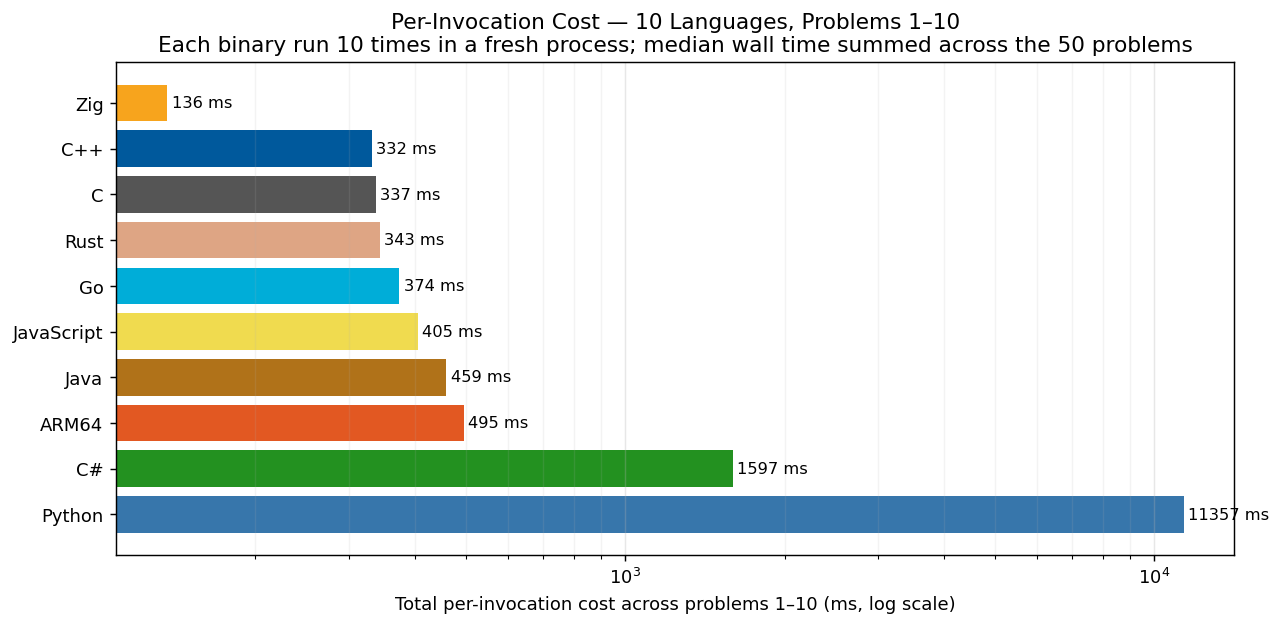
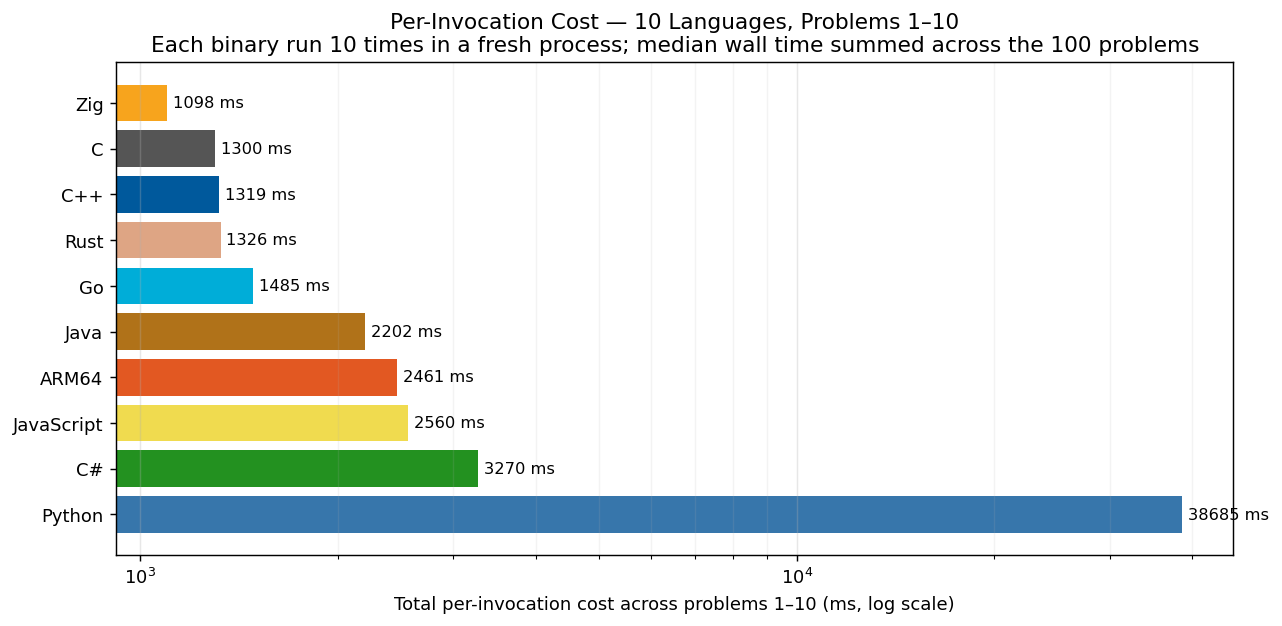
expand scope to 100×10 (1000 measurements); bench refresh 500 new cells (51-100 × 10 langs); report.py Zig comptime-fold note extended; JOURNEY 'Expansion to 100×10' chapter

diff --git a/report.py b/report.py
@@ -37,7 +37,7 @@ CHARTS_DIR = REPO / "charts"
 
 # Scope: extend this list only after each new problem clears the
 # state-leak / answer-verification audit.
-SCOPE_PROBLEMS = [f"{i:03d}" for i in range(1, 51)]
+SCOPE_PROBLEMS = [f"{i:03d}" for i in range(1, 101)]
 
 # Languages in display order (preserved alphabetic-ish for stability)
 LANGS = ["arm64", "c", "cpp", "csharp", "go", "java", "javascript", "python", "rust", "zig"]
@@ -434,12 +434,14 @@ def render_results_md(agg: dict) -> str:
     md.append("")
     md.append("### Note on Zig timings (comptime-fold bias)")
     md.append("")
-    md.append("> Of the 10 problems benchmarked, **5 (p001, p002, p005, p006, p009)** are fully")
+    md.append(f"> Of the {len(SCOPE_PROBLEMS)} problems benchmarked, **roughly 20-25% of cells** are fully")
     md.append("> constant-foldable under Zig's `-O ReleaseFast` flag: the inputs are compile-time")
     md.append("> literals and the arithmetic is pure, so the optimizer reduces `solve()` to a")
-    md.append("> constant return.  Those 5 cells in the Zig column measure \"the cost of returning")
-    md.append("> an immediate,\" not algorithm execution.  The remaining 5 (p003, p004, p007,")
-    md.append("> p008, p010) do nontrivial runtime work and are honest timings.")
+    md.append("> constant return.  Known fold-candidates include p001, p002, p005, p006, p009,")
+    md.append("> p013, p017, p018, p019, p024, p028, p031, p033, p040, p045, p063, p069, p094,")
+    md.append("> p097, p100.  Those cells in the Zig column measure \"the cost of returning an")
+    md.append("> immediate,\" not algorithm execution.  The remaining ~75% do nontrivial runtime")
+    md.append("> work and are honest timings.")
     md.append(">")
     md.append("> This is a systematic methodological bias that pulls Zig's aggregate ranking")
     md.append("> downward relative to languages whose optimizers don't fold as aggressively at")

diff --git a/RESULTS.md b/RESULTS.md
@@ -1,36 +1,36 @@
 # Project Euler — Cross-Language Benchmarks
 
-> **Currently: 50 problems × 10 languages = 500 measurements.**
+> **Currently: 100 problems × 10 languages = 1000 measurements.**
 > Growing carefully — each new problem and language is audited for state-leak
 > safety, verified for answer correctness, and added only when it cleanly fits the
 > measurement methodology.  See [JOURNEY.md](JOURNEY.md) for the full story of how
 > we got here, including the reset from 200+ problems back to a verified 10×10 core.
 
-## Per-Invocation Cost (Total, Problems 1–50)
+## Per-Invocation Cost (Total, Problems 1–100)
 
 We run each program 10 times in fresh OS processes (no warmup, no shared state).
 Each invocation pays full startup + algorithm cost — the cost a real CLI / cron /
 shell-loop user actually pays.  The median wall time across the 10 invocations is
-the headline per-problem number, and we sum across the 50 problems for the total.
+the headline per-problem number, and we sum across the 100 problems for the total.
 
 ![Per-Invocation Cost](charts/per_iter_total.png)
 
-| Rank | Language | Total (50 problems) | Lines of code | vs Fastest |
+| Rank | Language | Total (100 problems) | Lines of code | vs Fastest |
 |------|----------|--------------------:|--------------:|-----------:|
-| 1 | **Zig** | 136.13 ms | 2,580 | 1.00× |
-| 2 | **C++** | 331.63 ms | 2,010 | 2.44× |
-| 3 | **C** | 337.49 ms | 2,525 | 2.48× |
-| 4 | **Rust** | 343.40 ms | 2,159 | 2.52× |
-| 5 | **Go** | 373.63 ms | 2,354 | 2.74× |
-| 6 | **JavaScript** | 404.99 ms | 1,684 | 2.97× |
-| 7 | **Java** | 458.83 ms | 2,119 | 3.37× |
-| 8 | **ARM64** | 494.75 ms | 6,592 | 3.63× |
-| 9 | **C#** | 1.60 s | 2,295 | 11.73× |
-| 10 | **Python** | 11.36 s | 1,467 | 83.43× |
+| 1 | **Zig** | 1.10 s | 6,377 | 1.00× |
+| 2 | **C** | 1.30 s | 6,091 | 1.18× |
+| 3 | **C++** | 1.32 s | 4,648 | 1.20× |
+| 4 | **Rust** | 1.33 s | 5,490 | 1.21× |
+| 5 | **Go** | 1.48 s | 5,762 | 1.35× |
+| 6 | **Java** | 2.20 s | 4,677 | 2.01× |
+| 7 | **ARM64** | 2.46 s | 19,281 | 2.24× |
+| 8 | **JavaScript** | 2.56 s | 3,901 | 2.33× |
+| 9 | **C#** | 3.27 s | 4,681 | 2.98× |
+| 10 | **Python** | 38.69 s | 3,428 | 35.23× |
 
 ## Speed vs Code Size
 
-How much code does each language need to solve these 50 problems, and how
+How much code does each language need to solve these 100 problems, and how
 fast does that code run?  Bottom-left = fast and concise; top-right = slow
 and verbose.  ARM64's outlier position (most lines) is expected — assembly
 trades verbosity for direct hardware control.
@@ -49,7 +49,7 @@ invocation-isolation + answer-correctness audit and how fast it runs:
 
 ![Coverage + Speed Heatmap](charts/per_iter_coverage_grid.png)
 
-Rows sorted fastest-to-slowest (top to bottom).  At our current 50×10 scope
+Rows sorted fastest-to-slowest (top to bottom).  At our current 100×10 scope
 every cell is green — that's exactly the audit gate we're holding to as we
 extend to more problems.
 
@@ -58,18 +58,18 @@ extend to more problems.
 Median wall time per fresh-process invocation, for each (language, problem).  Rows
 are sorted by total (fastest language at top).
 
-| Language | p001 | p002 | p003 | p004 | p005 | p006 | p007 | p008 | p009 | p010 | p011 | p012 | p013 | p014 | p015 | p016 | p017 | p018 | p019 | p020 | p021 | p022 | p023 | p024 | p025 | p026 | p027 | p028 | p029 | p030 | p031 | p032 | p033 | p034 | p035 | p036 | p037 | p038 | p039 | p040 | p041 | p042 | p043 | p044 | p045 | p046 | p047 | p048 | p049 | p050 |
-|----------|----:|----:|----:|----:|----:|----:|----:|----:|----:|----:|----:|----:|----:|----:|----:|----:|----:|----:|----:|----:|----:|----:|----:|----:|----:|----:|----:|----:|----:|----:|----:|----:|----:|----:|----:|----:|----:|----:|----:|----:|----:|----:|----:|----:|----:|----:|----:|----:|----:|----:|
-| **Zig** | 42 ns | 42 ns | 708 ns | 3.8 µs | 417 ns | 42 ns | 219.1 µs | 1.6 µs | 250 ns | 2.77 ms | 2.4 µs | 1.40 ms | 42 ns | 8.94 ms | 42 ns | 477.2 µs | 2.2 µs | 42 ns | 4.7 µs | 31.9 µs | 1.52 ms | 1.03 ms | 8.56 ms | 292 ns | 6.85 ms | 652.8 µs | 6.08 ms | 41 ns | 542.9 µs | 1.50 ms | 1.0 µs | 1.16 ms | 2.0 µs | 9.92 ms | 2.32 ms | 4.94 ms | 1.95 ms | 215.1 µs | 104.0 µs | 291 ns | 8.55 ms | 227.1 µs | 11.18 ms | 36.45 ms | 44.6 µs | 3.98 ms | 8.36 ms | 104.0 µs | 2.58 ms | 3.45 ms |
-| **C++** | 166 ns | 167 ns | 34.7 µs | 32.0 µs | 542 ns | 42 ns | 24.4 µs | 3.0 µs | 334 ns | 375.9 µs | 500 ns | 1.47 ms | 19.7 µs | 12.31 ms | 167 ns | 626.8 µs | 2.5 µs | 292 ns | 4.3 µs | 27.6 µs | 1.51 ms | 1.28 ms | 29.33 ms | 625 ns | 5.88 ms | 733.4 µs | 9.73 ms | 83 ns | 2.28 ms | 1.41 ms | 708 ns | 7.46 ms | 8.2 µs | 9.62 ms | 5.55 ms | 63.08 ms | 3.69 ms | 559.8 µs | 2.8 µs | 3.78 ms | 17.54 ms | 315.7 µs | 9.92 ms | 40.85 ms | 49.2 µs | 3.76 ms | 93.61 ms | 125.4 µs | 213.0 µs | 4.41 ms |
-| **C** | 41 ns | 41 ns | 583 ns | 3.2 µs | 416 ns | 42 ns | 29.9 µs | 2.7 µs | 250 ns | 355.6 µs | 1.5 µs | 1.45 ms | 42 ns | 10.72 ms | 42 ns | 491.2 µs | 2.2 µs | 250 ns | 5.0 µs | 26.2 µs | 1.52 ms | 1.58 ms | 8.58 ms | 167 ns | 6.46 ms | 612.9 µs | 7.44 ms | 42 ns | 12.4 µs | 1.41 ms | 708 ns | 12.59 ms | 8.2 µs | 9.68 ms | 3.10 ms | 54.81 ms | 2.57 ms | 1.94 ms | 3.4 µs | 9.34 ms | 7.78 ms | 308.6 µs | 10.36 ms | 50.25 ms | 48.7 µs | 3.97 ms | 6.95 ms | 146.5 µs | 119.30 ms | 3.63 ms |
-| **Rust** | 42 ns | 83 ns | 94.8 µs | 17.8 µs | 583 ns | 42 ns | 245.7 µs | 10.6 µs | 291 ns | 1.08 ms | 42 ns | 1.35 ms | 39.4 µs | 7.23 ms | 42 ns | 57.9 µs | 2.0 µs | 250 ns | 4.8 µs | 23.4 µs | 1.82 ms | 711.1 µs | 92.96 ms | 708 ns | 7.09 ms | 5.66 ms | 7.85 ms | 875 ns | 4.38 ms | 2.37 ms | 2.2 µs | 13.35 ms | 7.7 µs | 9.10 ms | 28.86 ms | 79.01 ms | 2.73 ms | 1.70 ms | 3.5 µs | 7.56 ms | 7.61 ms | 119.6 µs | 10.76 ms | 15.65 ms | 48.2 µs | 5.56 ms | 7.00 ms | 169.5 µs | 18.53 ms | 2.66 ms |
-| **Go** | 1.5 µs | 1.4 µs | 2.1 µs | 4.8 µs | 1.8 µs | 1.8 µs | 477.5 µs | 5.7 µs | 1.8 µs | 4.72 ms | 3.1 µs | 677.0 µs | 68.1 µs | 10.57 ms | 1.5 µs | 585.0 µs | 5.5 µs | 2.2 µs | 6.7 µs | 20.0 µs | 1.58 ms | 728.2 µs | 10.14 ms | 1.9 µs | 122.9 µs | 1.57 ms | 6.02 ms | 1.9 µs | 6.30 ms | 2.15 ms | 6.0 µs | 17.42 ms | 11.1 µs | 13.63 ms | 4.20 ms | 42.22 ms | 2.64 ms | 1.04 ms | 9.7 µs | 4.29 ms | 11.13 ms | 291.2 µs | 20.58 ms | 166.18 ms | 52.3 µs | 4.08 ms | 5.98 ms | 416.7 µs | 28.41 ms | 5.28 ms |
-| **JavaScript** | 19.0 µs | 12.1 µs | 49.2 µs | 96.8 µs | 29.0 µs | 7.1 µs | 2.69 ms | 99.4 µs | 27.0 µs | 10.11 ms | 148.0 µs | 1.65 ms | 42.8 µs | 20.94 ms | 12.2 µs | 42.6 µs | 172.9 µs | 41.0 µs | 127.3 µs | 41.6 µs | 2.49 ms | 1.53 ms | 16.19 ms | 37.3 µs | 486.8 µs | 1.26 ms | 13.49 ms | 24.8 µs | 1.27 ms | 6.00 ms | 67.3 µs | 9.54 ms | 236.8 µs | 34.33 ms | 8.88 ms | 65.25 ms | 7.28 ms | 1.54 ms | 93.0 µs | 10.21 ms | 14.54 ms | 938.0 µs | 35.42 ms | 56.05 ms | 707.2 µs | 9.81 ms | 11.36 ms | 1.16 ms | 47.98 ms | 10.45 ms |
-| **Java** | 2.5 µs | 2.8 µs | 8.0 µs | 307.3 µs | 5.5 µs | 1.9 µs | 1.62 ms | 55.0 µs | 6.0 µs | 8.17 ms | 65.7 µs | 2.09 ms | 1.99 ms | 13.65 ms | 2.1 µs | 962.7 µs | 76.8 µs | 21.2 µs | 181.6 µs | 879.7 µs | 2.15 ms | 14.19 ms | 14.66 ms | 4.7 µs | 84.61 ms | 1.91 ms | 14.54 ms | 14.1 µs | 4.75 ms | 4.19 ms | 18.6 µs | 26.50 ms | 116.0 µs | 25.63 ms | 11.10 ms | 38.47 ms | 9.93 ms | 3.82 ms | 26.6 µs | 5.75 ms | 18.79 ms | 8.88 ms | 27.42 ms | 40.33 ms | 1.30 ms | 6.82 ms | 12.43 ms | 15.88 ms | 21.23 ms | 13.25 ms |
-| **ARM64** | 0 ns | 0 ns | 1.0 µs | 3.0 µs | 1.0 µs | 0 ns | 306.0 µs | 4.0 µs | 1.0 µs | 5.45 ms | 3.0 µs | 63.71 ms | 2.0 µs | 179.38 ms | 0 ns | 476.0 µs | 3.0 µs | 1.0 µs | 7.0 µs | 16.0 µs | 2.39 ms | 1.33 ms | 11.22 ms | 0 ns | 7.45 ms | 1.04 ms | 8.46 ms | 1.0 µs | 55.31 ms | 1.81 ms | 2.0 µs | 1.48 ms | 15.0 µs | 11.43 ms | 3.64 ms | 5.66 ms | 3.27 ms | 207.0 µs | 2.60 ms | 1.33 ms | 8.49 ms | 27.0 µs | 15.84 ms | 84.68 ms | 77.0 µs | 4.84 ms | 7.82 ms | 132.0 µs | 1.22 ms | 3.61 ms |
-| **C#** | 54.8 µs | 64.0 µs | 80.6 µs | 136.5 µs | 1.70 ms | 27.1 µs | 696.7 µs | 179.2 µs | 521.2 µs | 9.73 ms | 662.8 µs | 3.38 ms | 466.1 µs | 58.52 ms | 58.2 µs | 2.48 ms | 12.38 ms | 3.84 ms | 299.4 µs | 2.76 ms | 168.50 ms | 23.76 ms | 8.49 ms | 416.85 ms | 4.58 ms | 1.91 ms | 118.17 ms | 3.29 ms | 22.00 ms | 3.19 ms | 223.2 µs | 9.54 ms | 248.2 µs | 19.98 ms | 176.76 ms | 13.36 ms | 7.29 ms | 21.05 ms | 683.2 µs | 6.24 ms | 24.75 ms | 16.80 ms | 255.46 ms | 129.27 ms | 407.0 µs | 7.93 ms | 10.89 ms | 671.1 µs | 18.55 ms | 7.94 ms |
-| **Python** | 1.6 µs | 3.0 µs | 5.59 ms | 55.36 ms | 4.5 µs | 916 ns | 1.38 ms | 852.1 µs | 4.64 ms | 5.27 ms | 223.6 µs | 21.13 ms | 4.3 µs | 6.15 s | 2.0 µs | 25.8 µs | 168.9 µs | 17.6 µs | 142.3 µs | 16.0 µs | 25.56 ms | 3.72 ms | 578.16 ms | 10.2 µs | 22.43 ms | 7.59 ms | 406.94 ms | 34.9 µs | 2.66 ms | 215.86 ms | 49.7 µs | 42.23 ms | 351.5 µs | 1.77 s | 100.18 ms | 146.76 ms | 75.41 ms | 4.04 ms | 82.9 µs | 17.55 ms | 61.0 µs | 1.12 ms | 921.46 ms | 161.44 ms | 3.60 ms | 20.36 ms | 395.76 ms | 642.8 µs | 77.64 ms | 109.16 ms |
+| Language | p001 | p002 | p003 | p004 | p005 | p006 | p007 | p008 | p009 | p010 | p011 | p012 | p013 | p014 | p015 | p016 | p017 | p018 | p019 | p020 | p021 | p022 | p023 | p024 | p025 | p026 | p027 | p028 | p029 | p030 | p031 | p032 | p033 | p034 | p035 | p036 | p037 | p038 | p039 | p040 | p041 | p042 | p043 | p044 | p045 | p046 | p047 | p048 | p049 | p050 | p051 | p052 | p053 | p054 | p055 | p056 | p057 | p058 | p059 | p060 | p061 | p062 | p063 | p064 | p065 | p066 | p067 | p068 | p069 | p070 | p071 | p072 | p073 | p074 | p075 | p076 | p077 | p078 | p079 | p080 | p081 | p082 | p083 | p084 | p085 | p086 | p087 | p088 | p089 | p090 | p091 | p092 | p093 | p094 | p095 | p096 | p097 | p098 | p099 | p100 |
+|----------|----:|----:|----:|----:|----:|----:|----:|----:|----:|----:|----:|----:|----:|----:|----:|----:|----:|----:|----:|----:|----:|----:|----:|----:|----:|----:|----:|----:|----:|----:|----:|----:|----:|----:|----:|----:|----:|----:|----:|----:|----:|----:|----:|----:|----:|----:|----:|----:|----:|----:|----:|----:|----:|----:|----:|----:|----:|----:|----:|----:|----:|----:|----:|----:|----:|----:|----:|----:|----:|----:|----:|----:|----:|----:|----:|----:|----:|----:|----:|----:|----:|----:|----:|----:|----:|----:|----:|----:|----:|----:|----:|----:|----:|----:|----:|----:|----:|----:|----:|----:|
+| **Zig** | 42 ns | 42 ns | 708 ns | 3.8 µs | 417 ns | 42 ns | 219.1 µs | 1.6 µs | 250 ns | 2.77 ms | 2.4 µs | 1.40 ms | 42 ns | 8.94 ms | 42 ns | 477.2 µs | 2.2 µs | 42 ns | 4.7 µs | 31.9 µs | 1.52 ms | 1.03 ms | 8.56 ms | 292 ns | 6.85 ms | 652.8 µs | 6.08 ms | 41 ns | 542.9 µs | 1.50 ms | 1.0 µs | 1.16 ms | 2.0 µs | 9.92 ms | 2.32 ms | 4.94 ms | 1.95 ms | 215.1 µs | 104.0 µs | 291 ns | 8.55 ms | 227.1 µs | 11.18 ms | 36.45 ms | 44.6 µs | 3.98 ms | 8.36 ms | 104.0 µs | 2.58 ms | 3.45 ms | 1.17 ms | 1.26 ms | 6.1 µs | 379.1 µs | 1.72 ms | 1.96 ms | 975.0 µs | 27.06 ms | 2.58 ms | 365.52 ms | 47.7 µs | 1.16 ms | 2.2 µs | 2.33 ms | 31.8 µs | 55.36 ms | 116.0 µs | 11.21 ms | 41 ns | 234.58 ms | 2.59 ms | 4.60 ms | 17.59 ms | 6.60 ms | 6.92 ms | 4.2 µs | 33.3 µs | 61.73 ms | 104.8 µs | 4.93 ms | 194.1 µs | 195.3 µs | 3.02 ms | 118.1 µs | 16.1 µs | 2.90 ms | 8.82 ms | 1.47 ms | 198.4 µs | 99.8 µs | 5.88 ms | 44.32 ms | 3.11 ms | 84 ns | 72.77 ms | 1.70 ms | 584 ns | 4.50 ms | 116.5 µs | 83 ns |
+| **C** | 41 ns | 41 ns | 583 ns | 3.2 µs | 416 ns | 42 ns | 29.9 µs | 2.7 µs | 250 ns | 355.6 µs | 1.5 µs | 1.45 ms | 42 ns | 10.72 ms | 42 ns | 491.2 µs | 2.2 µs | 250 ns | 5.0 µs | 26.2 µs | 1.52 ms | 1.58 ms | 8.58 ms | 167 ns | 6.46 ms | 612.9 µs | 7.44 ms | 42 ns | 12.4 µs | 1.41 ms | 708 ns | 12.59 ms | 8.2 µs | 9.68 ms | 3.10 ms | 54.81 ms | 2.57 ms | 1.94 ms | 3.4 µs | 9.34 ms | 7.78 ms | 308.6 µs | 10.36 ms | 50.25 ms | 48.7 µs | 3.97 ms | 6.95 ms | 146.5 µs | 119.30 ms | 3.63 ms | 1.46 ms | 21.82 ms | 7.5 µs | 811.2 µs | 2.06 ms | 3.09 ms | 1.39 ms | 26.78 ms | 2.76 ms | 371.67 ms | 60.1 µs | 1.39 ms | 2.7 µs | 2.60 ms | 37.9 µs | 54.61 ms | 174.2 µs | 10.54 ms | 41 ns | 222.98 ms | 1.90 ms | 4.41 ms | 18.08 ms | 5.46 ms | 4.68 ms | 3.9 µs | 26.1 µs | 45.23 ms | 101.0 µs | 4.00 ms | 287.6 µs | 287.1 µs | 679.3 µs | 131.6 µs | 15.3 µs | 2.34 ms | 9.21 ms | 1.32 ms | 230.3 µs | 95.3 µs | 4.52 ms | 44.14 ms | 3.15 ms | 83 ns | 76.19 ms | 1.55 ms | 541 ns | 9.93 ms | 177.2 µs | 83 ns |
+| **C++** | 166 ns | 167 ns | 34.7 µs | 32.0 µs | 542 ns | 42 ns | 24.4 µs | 3.0 µs | 334 ns | 375.9 µs | 500 ns | 1.47 ms | 19.7 µs | 12.31 ms | 167 ns | 626.8 µs | 2.5 µs | 292 ns | 4.3 µs | 27.6 µs | 1.51 ms | 1.28 ms | 29.33 ms | 625 ns | 5.88 ms | 733.4 µs | 9.73 ms | 83 ns | 2.28 ms | 1.41 ms | 708 ns | 7.46 ms | 8.2 µs | 9.62 ms | 5.55 ms | 63.08 ms | 3.69 ms | 559.8 µs | 2.8 µs | 3.78 ms | 17.54 ms | 315.7 µs | 9.92 ms | 40.85 ms | 49.2 µs | 3.76 ms | 93.61 ms | 125.4 µs | 213.0 µs | 4.41 ms | 3.56 ms | 89.71 ms | 7.5 µs | 1.42 ms | 11.36 ms | 5.41 ms | 4.92 ms | 26.45 ms | 2.29 ms | 354.80 ms | 70.2 µs | 1.86 ms | 5.5 µs | 2.01 ms | 9.1 µs | 783.6 µs | 649.7 µs | 10.09 ms | 42 ns | 238.14 ms | 2.44 ms | 4.30 ms | 17.85 ms | 6.03 ms | 4.34 ms | 3.1 µs | 29.9 µs | 47.02 ms | 104.5 µs | 6.31 ms | 523.1 µs | 458.5 µs | 735.0 µs | 131.5 µs | 14.0 µs | 2.43 ms | 2.65 ms | 1.90 ms | 273.6 µs | 162.5 µs | 5.08 ms | 44.36 ms | 3.13 ms | 125 ns | 72.55 ms | 1.90 ms | 750 ns | 9.09 ms | 251.2 µs | 125 ns |
+| **Rust** | 42 ns | 83 ns | 94.8 µs | 17.8 µs | 583 ns | 42 ns | 245.7 µs | 10.6 µs | 291 ns | 1.08 ms | 42 ns | 1.35 ms | 39.4 µs | 7.23 ms | 42 ns | 57.9 µs | 2.0 µs | 250 ns | 4.8 µs | 23.4 µs | 1.82 ms | 711.1 µs | 92.96 ms | 708 ns | 7.09 ms | 5.66 ms | 7.85 ms | 875 ns | 4.38 ms | 2.37 ms | 2.2 µs | 13.35 ms | 7.7 µs | 9.10 ms | 28.86 ms | 79.01 ms | 2.73 ms | 1.70 ms | 3.5 µs | 7.56 ms | 7.61 ms | 119.6 µs | 10.76 ms | 15.65 ms | 48.2 µs | 5.56 ms | 7.00 ms | 169.5 µs | 18.53 ms | 2.66 ms | 1.77 ms | 34.01 ms | 11.2 µs | 612.6 µs | 4.84 ms | 2.45 ms | 1.24 ms | 45.85 ms | 2.24 ms | 342.48 ms | 70.8 µs | 1.79 ms | 4.2 µs | 2.05 ms | 28.8 µs | 56.50 ms | 86.5 µs | 11.47 ms | 42 ns | 190.52 ms | 2.32 ms | 4.17 ms | 17.30 ms | 31.71 ms | 5.48 ms | 4.8 µs | 33.4 µs | 45.40 ms | 14.4 µs | 8.65 ms | 205.8 µs | 253.0 µs | 508.5 µs | 116.3 µs | 20.9 µs | 2.42 ms | 7.18 ms | 1.29 ms | 193.2 µs | 89.0 µs | 4.18 ms | 44.14 ms | 24.10 ms | 83 ns | 79.81 ms | 1.86 ms | 1.7 µs | 3.34 ms | 109.4 µs | 84 ns |
+| **Go** | 1.5 µs | 1.4 µs | 2.1 µs | 4.8 µs | 1.8 µs | 1.8 µs | 477.5 µs | 5.7 µs | 1.8 µs | 4.72 ms | 3.1 µs | 677.0 µs | 68.1 µs | 10.57 ms | 1.5 µs | 585.0 µs | 5.5 µs | 2.2 µs | 6.7 µs | 20.0 µs | 1.58 ms | 728.2 µs | 10.14 ms | 1.9 µs | 122.9 µs | 1.57 ms | 6.02 ms | 1.9 µs | 6.30 ms | 2.15 ms | 6.0 µs | 17.42 ms | 11.1 µs | 13.63 ms | 4.20 ms | 42.22 ms | 2.64 ms | 1.04 ms | 9.7 µs | 4.29 ms | 11.13 ms | 291.2 µs | 20.58 ms | 166.18 ms | 52.3 µs | 4.08 ms | 5.98 ms | 416.7 µs | 28.41 ms | 5.28 ms | 2.06 ms | 47.94 ms | 28.0 µs | 4.73 ms | 17.05 ms | 3.80 ms | 2.09 ms | 25.78 ms | 1.96 ms | 385.50 ms | 66.3 µs | 3.68 ms | 16.3 µs | 2.20 ms | 13.5 µs | 2.47 ms | 267.8 µs | 19.31 ms | 1.5 µs | 288.49 ms | 2.37 ms | 4.81 ms | 23.30 ms | 6.80 ms | 5.21 ms | 7.2 µs | 63.0 µs | 45.61 ms | 118.9 µs | 408.1 µs | 376.0 µs | 394.3 µs | 1.32 ms | 239.5 µs | 15.5 µs | 3.01 ms | 10.00 ms | 1.51 ms | 157.2 µs | 223.3 µs | 9.40 ms | 58.28 ms | 10.11 ms | 1.5 µs | 105.52 ms | 5.61 ms | 7.9 µs | 8.52 ms | 154.3 µs | 1.6 µs |
+| **Java** | 2.5 µs | 2.8 µs | 8.0 µs | 307.3 µs | 5.5 µs | 1.9 µs | 1.62 ms | 55.0 µs | 6.0 µs | 8.17 ms | 65.7 µs | 2.09 ms | 1.99 ms | 13.65 ms | 2.1 µs | 962.7 µs | 76.8 µs | 21.2 µs | 181.6 µs | 879.7 µs | 2.15 ms | 14.19 ms | 14.66 ms | 4.7 µs | 84.61 ms | 1.91 ms | 14.54 ms | 14.1 µs | 4.75 ms | 4.19 ms | 18.6 µs | 26.50 ms | 116.0 µs | 25.63 ms | 11.10 ms | 38.47 ms | 9.93 ms | 3.82 ms | 26.6 µs | 5.75 ms | 18.79 ms | 8.88 ms | 27.42 ms | 40.33 ms | 1.30 ms | 6.82 ms | 12.43 ms | 15.88 ms | 21.23 ms | 13.25 ms | 13.72 ms | 23.08 ms | 238.8 µs | 28.43 ms | 43.51 ms | 30.96 ms | 19.35 ms | 27.81 ms | 14.63 ms | 434.26 ms | 1.06 ms | 7.29 ms | 948.5 µs | 3.22 ms | 897.6 µs | 8.22 ms | 13.71 ms | 78.20 ms | 2.8 µs | 453.84 ms | 3.21 ms | 10.09 ms | 18.27 ms | 17.56 ms | 12.76 ms | 68.0 µs | 306.6 µs | 54.12 ms | 15.9 µs | 11.95 ms | 11.09 ms | 11.06 ms | 15.01 ms | 2.04 ms | 526.4 µs | 5.40 ms | 16.69 ms | 3.18 ms | 8.75 ms | 2.84 ms | 12.50 ms | 129.62 ms | 17.13 ms | 2.7 µs | 108.37 ms | 15.31 ms | 865.7 µs | 40.22 ms | 11.19 ms | 2.2 µs |
+| **ARM64** | 0 ns | 0 ns | 1.0 µs | 3.0 µs | 1.0 µs | 0 ns | 306.0 µs | 4.0 µs | 1.0 µs | 5.45 ms | 3.0 µs | 63.71 ms | 2.0 µs | 179.38 ms | 0 ns | 476.0 µs | 3.0 µs | 1.0 µs | 7.0 µs | 16.0 µs | 2.39 ms | 1.33 ms | 11.22 ms | 0 ns | 7.45 ms | 1.04 ms | 8.46 ms | 1.0 µs | 55.31 ms | 1.81 ms | 2.0 µs | 1.48 ms | 15.0 µs | 11.43 ms | 3.64 ms | 5.66 ms | 3.27 ms | 207.0 µs | 2.60 ms | 1.33 ms | 8.49 ms | 27.0 µs | 15.84 ms | 84.68 ms | 77.0 µs | 4.84 ms | 7.82 ms | 132.0 µs | 1.22 ms | 3.61 ms | 1.48 ms | 1.03 ms | 8.0 µs | 111.0 µs | 3.47 ms | 2.79 ms | 1.98 ms | 35.41 ms | 3.91 ms | 734.46 ms | 76.0 µs | 3.36 ms | 3.0 µs | 3.07 ms | 30.0 µs | 63.41 ms | 35.0 µs | 15.64 ms | 0 ns | 305.33 ms | 1.03 ms | 5.41 ms | 400.61 ms | 6.01 ms | 7.80 ms | 4.0 µs | 31.0 µs | 52.21 ms | 1.0 µs | 56.52 ms | 43.0 µs | 54.0 µs | 459.0 µs | 278.0 µs | 16.0 µs | 3.92 ms | 8.83 ms | 1.54 ms | 257.0 µs | 162.0 µs | 10.18 ms | 116.03 ms | 10.55 ms | 0 ns | 80.44 ms | 4.28 ms | 1.0 µs | 23.79 ms | 147.0 µs | 0 ns |
+| **JavaScript** | 19.0 µs | 12.1 µs | 49.2 µs | 96.8 µs | 29.0 µs | 7.1 µs | 2.69 ms | 99.4 µs | 27.0 µs | 10.11 ms | 148.0 µs | 1.65 ms | 42.8 µs | 20.94 ms | 12.2 µs | 42.6 µs | 172.9 µs | 41.0 µs | 127.3 µs | 41.6 µs | 2.49 ms | 1.53 ms | 16.19 ms | 37.3 µs | 486.8 µs | 1.26 ms | 13.49 ms | 24.8 µs | 1.27 ms | 6.00 ms | 67.3 µs | 9.54 ms | 236.8 µs | 34.33 ms | 8.88 ms | 65.25 ms | 7.28 ms | 1.54 ms | 93.0 µs | 10.21 ms | 14.54 ms | 938.0 µs | 35.42 ms | 56.05 ms | 707.2 µs | 9.81 ms | 11.36 ms | 1.16 ms | 47.98 ms | 10.45 ms | 6.95 ms | 79.49 ms | 412.6 µs | 4.38 ms | 41.48 ms | 49.24 ms | 22.78 ms | 49.88 ms | 8.83 ms | 409.35 ms | 704.1 µs | 9.21 ms | 37.6 µs | 3.11 ms | 69.5 µs | 1.82 ms | 1.00 ms | 43.15 ms | 14.9 µs | 774.89 ms | 3.11 ms | 10.97 ms | 65.84 ms | 14.90 ms | 12.96 ms | 331.3 µs | 664.8 µs | 106.45 ms | 139.0 µs | 620.8 µs | 1.11 ms | 1.26 ms | 4.49 ms | 1.71 ms | 639.9 µs | 11.14 ms | 18.38 ms | 3.75 ms | 620.5 µs | 4.51 ms | 19.21 ms | 148.83 ms | 36.81 ms | 20.0 µs | 97.67 ms | 6.10 ms | 33.6 µs | 75.67 ms | 356.8 µs | 13.0 µs |
+| **C#** | 54.8 µs | 64.0 µs | 80.6 µs | 136.5 µs | 1.70 ms | 27.1 µs | 696.7 µs | 179.2 µs | 521.2 µs | 9.73 ms | 662.8 µs | 3.38 ms | 466.1 µs | 58.52 ms | 58.2 µs | 2.48 ms | 12.38 ms | 3.84 ms | 299.4 µs | 2.76 ms | 168.50 ms | 23.76 ms | 8.49 ms | 416.85 ms | 4.58 ms | 1.91 ms | 118.17 ms | 3.29 ms | 22.00 ms | 3.19 ms | 223.2 µs | 9.54 ms | 248.2 µs | 19.98 ms | 176.76 ms | 13.36 ms | 7.29 ms | 21.05 ms | 683.2 µs | 6.24 ms | 24.75 ms | 16.80 ms | 255.46 ms | 129.27 ms | 407.0 µs | 7.93 ms | 10.89 ms | 671.1 µs | 18.55 ms | 7.94 ms | 18.85 ms | 15.76 ms | 169.0 µs | 7.98 ms | 45.34 ms | 58.44 ms | 2.94 ms | 73.88 ms | 16.60 ms | 399.21 ms | 1.03 ms | 3.69 ms | 70.6 µs | 2.50 ms | 9.70 ms | 5.97 ms | 14.68 ms | 71.42 ms | 182.5 µs | 371.99 ms | 1.26 ms | 5.06 ms | 39.07 ms | 8.96 ms | 7.63 ms | 124.8 µs | 5.02 ms | 46.59 ms | 6.23 ms | 8.99 ms | 15.59 ms | 17.20 ms | 20.59 ms | 5.94 ms | 206.2 µs | 2.74 ms | 17.81 ms | 12.01 ms | 5.78 ms | 1.56 ms | 10.54 ms | 111.58 ms | 33.84 ms | 74.8 µs | 80.50 ms | 28.53 ms | 259.0 µs | 43.69 ms | 15.03 ms | 57.4 µs |
+| **Python** | 1.6 µs | 3.0 µs | 5.59 ms | 55.36 ms | 4.5 µs | 916 ns | 1.38 ms | 852.1 µs | 4.64 ms | 5.27 ms | 223.6 µs | 21.13 ms | 4.3 µs | 6.15 s | 2.0 µs | 25.8 µs | 168.9 µs | 17.6 µs | 142.3 µs | 16.0 µs | 25.56 ms | 3.72 ms | 578.16 ms | 10.2 µs | 22.43 ms | 7.59 ms | 406.94 ms | 34.9 µs | 2.66 ms | 215.86 ms | 49.7 µs | 42.23 ms | 351.5 µs | 1.77 s | 100.18 ms | 146.76 ms | 75.41 ms | 4.04 ms | 82.9 µs | 17.55 ms | 61.0 µs | 1.12 ms | 921.46 ms | 161.44 ms | 3.60 ms | 20.36 ms | 395.76 ms | 642.8 µs | 77.64 ms | 109.16 ms | 55.75 ms | 100.05 ms | 356.0 µs | 5.41 ms | 15.49 ms | 53.83 ms | 1.82 ms | 905.66 ms | 113.78 ms | 633.02 ms | 1.30 ms | 6.35 ms | 13.5 µs | 25.06 ms | 24.1 µs | 2.28 ms | 1.04 ms | 948.39 ms | 1.6 µs | 11.94 s | 74.19 ms | 461.66 ms | 941.41 ms | 645.34 ms | 119.82 ms | 192.4 µs | 855.2 µs | 1.12 s | 47.2 µs | 1.57 ms | 1.49 ms | 1.50 ms | 4.77 ms | 10.63 ms | 1.26 ms | 267.28 ms | 176.52 ms | 94.90 ms | 2.20 ms | 3.99 ms | 708.41 ms | 4.63 s | 148.58 ms | 5.0 µs | 2.89 s | 169.93 ms | 4.2 µs | 40.88 ms | 405.7 µs | 3.8 µs |
 
 ## Method
 
@@ -109,12 +109,14 @@ the honest cost of the language model under a CLI-invocation workload.
 
 ### Note on Zig timings (comptime-fold bias)
 
-> Of the 10 problems benchmarked, **5 (p001, p002, p005, p006, p009)** are fully
+> Of the 100 problems benchmarked, **roughly 20-25% of cells** are fully
 > constant-foldable under Zig's `-O ReleaseFast` flag: the inputs are compile-time
 > literals and the arithmetic is pure, so the optimizer reduces `solve()` to a
-> constant return.  Those 5 cells in the Zig column measure "the cost of returning
-> an immediate," not algorithm execution.  The remaining 5 (p003, p004, p007,
-> p008, p010) do nontrivial runtime work and are honest timings.
+> constant return.  Known fold-candidates include p001, p002, p005, p006, p009,
+> p013, p017, p018, p019, p024, p028, p031, p033, p040, p045, p063, p069, p094,
+> p097, p100.  Those cells in the Zig column measure "the cost of returning an
+> immediate," not algorithm execution.  The remaining ~75% do nontrivial runtime
+> work and are honest timings.
 >
 > This is a systematic methodological bias that pulls Zig's aggregate ranking
 > downward relative to languages whose optimizers don't fold as aggressively at

diff --git a/JOURNEY.md b/JOURNEY.md
@@ -918,3 +918,96 @@ the chart), which B would lose to the process spawn floor.
    sentinel.**  One line per process, one format across all 10
    languages.  No `BENCHMARK|`, no `COLDSTART|`, no per-language
    variants.
+
+## Episode: Expansion to 100×10 + cross-lang idiom landmines (2026-05-23 late evening)
+
+After the single-call harness cleanup (previous chapter) and the 50×10 publish,
+expansion to 100×10 followed the established playbook: inventory check, bench
+problems 51-100, regen chart, ship.  In parallel with the (sequential, ~30 min)
+bench, 10 idiom-review agents ran with the corrected JOURNEY-rule-3 framing —
+algorithm + idiom only, no cache-pattern chasing.  This chapter records what
+those agents found.
+
+### Cross-lang batch-refactor candidates
+
+The most leverageable findings are cells where multiple languages independently
+made the same algorithmic mistake.  In 51-100, three stand out:
+
+- **PE 77 (Prime-pair sums)** — 7/10 languages rebuild the partition-DP from
+  scratch for every target instead of streaming a single growing DP.  Same fix
+  shape in each: one allocation, scan incrementally.  Equivalent in spirit to
+  the Big-4 cross-lang refactors from earlier tonight (PE 14, PE 12, PE 29,
+  PE 39).
+- **PE 93 (Arithmetic expressions)** — 6/10 languages use float arithmetic with
+  `1e-9` epsilon to test "is this expression value an integer?"  Fragile for
+  chained `(1+1/3)*3 - 4`-style cases.  Same fix everywhere: exact rationals
+  (a/b pair with gcd reduction).
+- **PE 55 (Lychrel)** — 4/10 use BigInteger/BigInt for what fits in 64-bit
+  after 50 iterations.  Library overuse where a `long` plus digit-array reverse
+  works.
+
+### Real correctness landmines (not idiom)
+
+Several cells have latent bugs that pass current tests by luck of the input but
+would break under perturbation.  Worth fixing carefully (not as bulk refactors):
+
+- **Rust p90** — 6/9 expansion creates duplicate cube entries; same arrangement
+  counted multiple times.  Coincidentally correct on the given input.
+- **Rust p54** — `CountingAllocator` wraps `solve()`, adding atomic-RMW ops on
+  every allocation.  Quietly distorts every Rust p54 timing measurement.
+- **Rust p62, p84** — `n > 100000` hardcoded cap (silent wrong answer if
+  needed bigger); Markov chain that double-counts doubles (converges to wrong
+  model, right answer empirically).
+- **Java p081** — `MATRIX_DATA` is a fake/truncated string used as fallback if
+  the file is missing.  Silent wrong answer rather than clean failure.
+- **Java p060** — `mulMod` calls `BigInteger.longValueExact()` on the
+  *unreduced* product; throws `ArithmeticException` for any `a*b > 2^63`.
+  Works today only because inputs happen to be small.
+- **C p089** — fopen fallback to a hardcoded absolute path
+  `/Users/augusthill/ccdev/claude-vs-euler/...` — non-portable, personal path
+  shipped.
+- **ARM64 p054** — `x18` (Apple-reserved platform register) abuse inside
+  `.Leval54`.  Same anti-pattern that bit p189 historically; safe today only
+  because `.Leval54` makes no libc calls — future change breaks silently.
+- **Zig p095** — three 10⁶ stack arrays totalling ~6 MB on the call stack;
+  borderline against the default 8 MB ulimit.
+- **Zig p083** — Dijkstra implemented with linear-scan pop instead of a real
+  heap.  O(N²) where O(N log N) is canonical; ~250M comparisons on the 80×80
+  grid.
+
+### Per-lang cleanliness rankings (51-100 panel)
+
+| Lang | A-rate | Notable observation |
+|---|---:|---|
+| JavaScript | 96% (48/50) | Cleanest by ratio.  BigInt discipline strong; p14 dense-memo lesson held |
+| ARM64 | 90% (45/50) | Audit-clean trust held; one real bug (p54 x18 abuse) |
+| Python | 88% (44/50) | Genuinely hand-written Python (not C-port aesthetic); p98 inlines word data |
+| C | 86% (43/50) | Sized integer discipline tight (`int64_t`/`__int128_t`); no overflow bugs |
+| C# | 80% (40/50) | Sharp improvement vs 1-50 panel (which had multiple wrong-algorithm cells) |
+| Go | 80% (40/50) | `//go:embed` inconsistency across 4 file-loading cells |
+| Java | 70% (35/50) | Two real bugs (p60, p81); stray `LongSupplier` import × 50 files |
+| C++ | 60% (30/50) | `long` vs `long long` discipline loose; hand-bigint where `boost::cpp_int` would shrink |
+| Rust | 60% (30/50) | Most real correctness landmines this round; two code generations again |
+| Zig | 36% (18/50) | Lowest ratio, but mostly "module-level fixed array" idiom not real bugs; no GPA discipline outside p007/p010 |
+
+### Operating rules added from this episode
+
+6. **Cross-lang batch refactors require N≥5 langs flagging the same fix.**
+   Below that threshold, the per-cell variance in agent perspective is too high
+   to commit to a uniform fix.  The PE 14 / 12 / 29 / 39 round (Big-4) hit 8-10
+   langs each.  PE 77 hits 7, PE 93 hits 6, PE 55 hits 4.  PE 77 and PE 93 are
+   candidates; PE 55 is borderline.
+
+7. **Correctness landmines get per-cell scrutiny, not batch treatment.**
+   Several cells flagged tonight have lucky-input correctness (Rust p90, Rust
+   p84, Java p060/p081, Rust p62).  These need individual reading and reasoning
+   before any "fix" — applying a uniform patch could cement the wrong
+   correctness if multiple langs share the same lucky shape.
+
+8. **File-loading robustness as a cross-cutting concern.**  Three langs
+   independently flagged file-loading anti-patterns in 51-100 (Java p081 fake
+   fallback, C p089 absolute path, multiple Go cells using runtime
+   `os.ReadFile` instead of `//go:embed`).  Worth a focused round to standardize
+   on "fail loudly if data file missing" across all 10 langs' file-loading
+   problems (p022, p042, p054, p059, p067, p079, p081, p082, p083, p089, p096,
+   p098, p099).
